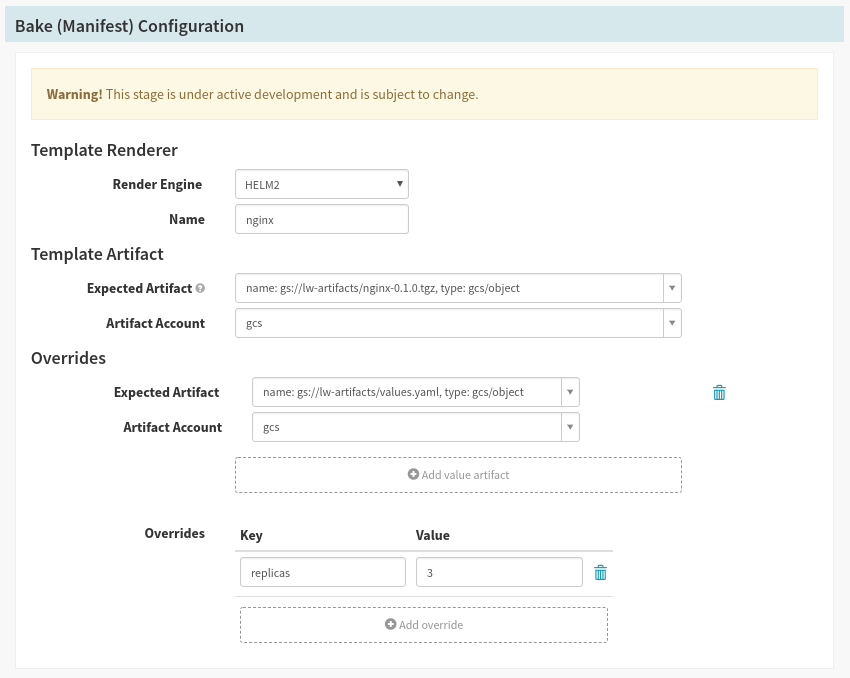
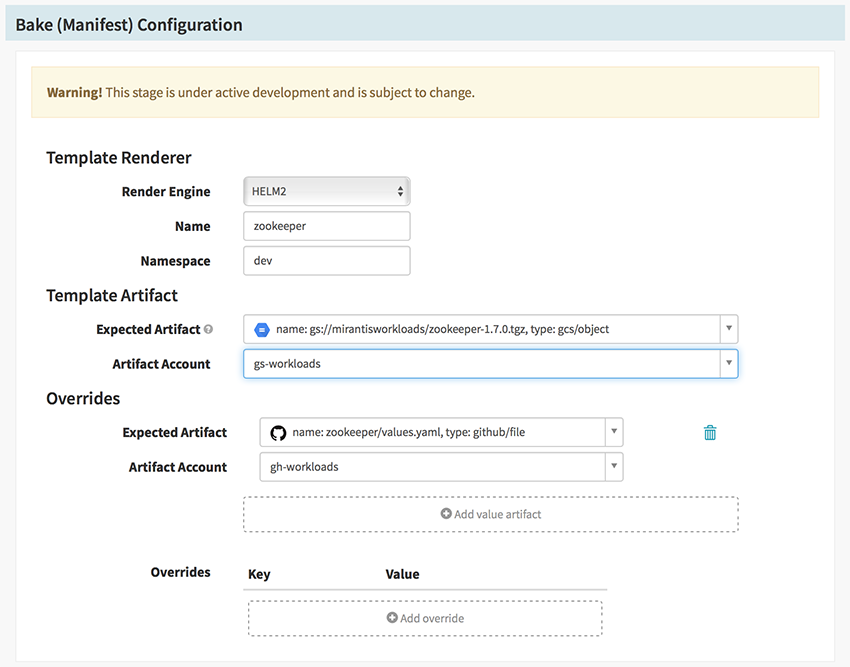
docs(bake/manifests): add namespace parameter in Helm bakery

diff --git a/guides/user/kubernetes-v2/deploy-helm/index.md b/guides/user/kubernetes-v2/deploy-helm/index.md
@@ -34,6 +34,19 @@ When configuring the "Bake (Manifest)" stage, you can specify the following:
   /path/to/chart`. See more details
   [here](https://docs.helm.sh/helm/#helm-package).
 
+* __The release namespace__ (optional)
+
+  The Kubernetes namespace to install release into. If parameter is not
+  specified default namespace will be used.
+
+> Note: Not all Helm charts contains namespace definition in manifests.
+> Make sure that your manifests contains the following code:
+
+```yaml
+metadata:
+  namespace: {{ .Release.Namespace }}
+```
+
 * __Zero or more override artifacts__ (optional)
 
   The files passed to `--values` parameter in the [`helm
